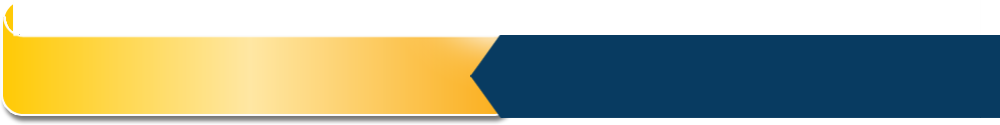
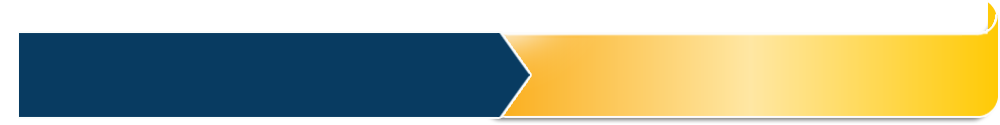
a

diff --git a/page3/index.html b/page3/index.html
@@ -54,7 +54,7 @@
 			<span class=flag rel="canada"></span>
 		</header>
 		<article>
-			<h1>Authorized Solutions for Organs Transplants</h1>
+			<h1>Certified Solutions for Organs Transplatation</h1>
 			<div id=rotation>
 				<img src="images/picture1.jpg" />
 				<img src="images/picture2.jpg" />
@@ -62,9 +62,9 @@
 				<img src="images/picture4.jpg" />
 			</div>
 			<div id=strip1>
-				<span><b>Get Started! Free</b>will explain the legal procedure to the client</span>
-				<h2>We Provide solutions</h2>
-			</div>
+				<span><b>Fill in Your Details</b>We will contact you instantly &amp; explain the legal procedure</span>
+				<h2>Safeguarded Process by Expert</h2>
+	    </div>
 			<section>
 				<div id=left>
 					<h2>Our Expertise</h2>
@@ -73,9 +73,8 @@
 					<span>Legal Guidance</span>
 					<span>Insurance Reimbursements</span>
 					<hr />
-					<h3>Professional Guidance</h3>
-					<b>Having fully understood the consequences</b>
-					<p>will explain the legal procedure to the client, answer any questions, and make sure the client is knowingly signing and executing this contract, without any coercion and having fully understood the consequences</p>
+					<h3>Organ Transplant</h3>
+					<p>People who need an organ transplant often have to wait a long time for one. Doctors must match donors to recipients to reduce the risk of transplant rejection. This is when the recipient's body turns against the new organ, causing it to fail. People who have transplants must take drugs the rest of their lives to help keep their bodies from rejecting the new organ. Our company can give you solution in kidney, heart, liver transplant.</p>
 				</div>
 				<div id=rite>
 					<label>*Name<input required name="name" /></label>
@@ -89,23 +88,25 @@
 													</select>
 												</label>
 					<label>Your Comments<textarea name="comm"></textarea></label>
-					<button>Submit Now</button>
+					<button>Contact Me Now</button>
 				</div>
 				<hr />
 				<div id=services>
 					<nav>
 						<a href="http://demkindima.wix.com/justsavelives_1#!kidney/ccef">Kidney Transplant</a>
-						<a href="ihttp://demkindima.wix.com/justsavelives_1#!heart/cmbd">Heart Transplant</a>
+						<a href="http://demkindima.wix.com/justsavelives_1#!heart/cmbd">Heart Transplant</a>
 						<a href="http://demkindima.wix.com/justsavelives_1#!liver/c21qv">Liver Transplant</a>
 						<a href="#about">About Us</a>
 					</nav>
-					<section rel="about" class="pages">
-						Company "Leshem Shamaim" -  the Israeli Company for Saving Lives and for Medical Tourism Ltd." Engages in providing consulting services and solutions regarding organ transplants abroad, in full accordance with the Organ Transplantation Law.<br>
-						The company has over ten years of experience in the field, and to its credit are many patients whose lives were saved, and who are ready to provide their recommendation and opinion of the company's services to any new client who is interested.<br>
-						The company works with a staff of senior and highly professional physicians. One of our main advisors is a professor and a renowned expert in the field of organ transplants. In addition, the company has exclusive agreements with various hospitals around the world.
-					</section>
 					<h2>Services</h2>
 					<p>will explain the legal procedure to the client, answer any questions, and make sure the client is knowingly signing and executing this contract, without any coercion and after having fully understood the consequences will explain the legal procedure to the client, answer any questions, and make sure the client is knowingly signing and executing this contract, without any coercion and after will explain the legal procedure to the client, answer any questions, and make sure the client is knowingly signing and executing this contract, without any coercion and after</p>
+					<section rel="about" class="pages">
+						<a name="about"></a>
+						<h2>About Us</h2>
+						<p>Company "Leshem Shamaim" -  the Israeli Company for Saving Lives and for Medical Tourism Ltd." Engages in providing consulting services and solutions regarding organ transplants abroad, in full accordance with the Organ Transplantation Law.<br>
+						The company has over ten years of experience in the field, and to its credit are many patients whose lives were saved, and who are ready to provide their recommendation and opinion of the company's services to any new client who is interested.<br>
+						The company works with a staff of senior and highly professional physicians. One of our main advisors is a professor and a renowned expert in the field of organ transplants. In addition, the company has exclusive agreements with various hospitals around the world.</p>
+					</section>
 				</div>
 			</section>
 		</article>

diff --git a/page3/style.css b/page3/style.css
@@ -1,5 +1,5 @@
 html {
-	background: #0836b1;
+	background: #083B61;
 }
 body {
 	font-family: Tahoma;
@@ -13,7 +13,7 @@ a {
 	color: #083B61; 
 }
 header {
[1 lines of base64/hex data omitted]
+	background: #052135;
 	height:254px;
 	border-bottom:2px solid #fbfbfb;
 	box-shadow: 0 2px 9px 0px #000;
@@ -48,10 +48,11 @@ h1 {
 	line-height: 47px;
 	height: 47px;
 	border-bottom: 1px solid #000;
-	font-size: 30px;
+	font-size: 32px;
 	text-indent: 25px;
 	text-shadow: 0 1px 3px #000;
 	filter: dropshadow(color=#000, offx=0, offy=1);
+	letter-spacing: 3px;
 }
 #rotation {
 	border: solid #000;
@@ -74,14 +75,14 @@ h1 {
 #strip1 {
 	z-index: 100;
 	position: absolute;
-	background: url(images/middlestrip.png) 0 0 no-repeat;
+	background: url(images/middlestrip.png) -18px 0 no-repeat;
 	width: 985px;
 	height: 125px;
-	margin:-36px 0 0 -14px;
+	margin:-36px -14px 0 0;
 }
 #strip1 span {
 	text-align: center;
-	float: left;
+	float: right;
 	color: #313e50;
 	font-size: 16px;
 	width: 480px;
@@ -98,10 +99,10 @@ h1 {
 	width: 480px;
 	float: left;
 	line-height: 100px;
-	font-size: 40px;
+	font-size: 32px;
 	text-shadow: 0 1px 2px #000;
 	text-align: center;
-	margin: 20px 0 0 0 ;
+	margin: 20px 0 0 0;
 }
 section {
 	background: #fff;
@@ -122,7 +123,7 @@ section {
 #left h2 {
 	line-height: 72px;
 	font-size: 30px;
-	text-shadow: 0 1px 2px #000;
+	text-shadow: 0 1px 1px #666;
 }
 #left span {
 	height: 40px;
@@ -215,13 +216,11 @@ button {
 	border: 1px solid #000;
 	margin-top: 20px;
 }
-.pages {
-	display: none;
+.lb .pages {
 	font-family: Tahoma;
 	font-size: 18px;
-	color: #fff;
 	line-height: 1.4em;
-	width: 500px;
+	width: 400px;
 	margin: 0 auto;
 	background: transparent;
 }
@@ -255,7 +254,6 @@ button {
 	margin: 0 15px 20px 15px;
 }
 footer {
-	position: fixed;
 	bottom: 0;
 	left: 0;
 	right: 0;
@@ -280,13 +278,14 @@ footer a.fb {
 	position: fixed;
 	z-index: 1000;
 	left: 0;
-	top: 0;
+	top: 0px;
 	right: 0;
 	bottom: 0;
-	background: rgba(0,0,0,0.3);
-	text-align: center;
-	font-size: 50px;
+	background: rgba(5,33,53,0.9);
+	text-align: left;
+	font-size: 40px;
 	vertical-align: middle;
 	color: #fff;
 	display:none;
+	padding-top: 100px;
 }

diff --git a/page3/send.php b/page3/send.php
@@ -10,8 +10,8 @@ Subject: {$_GET['subj']}
 Message: {$_GET['text']}
 EOM;
 
-$headers = "Cc:optiwisemcc@gmail.com,boris.volfman@leshem-shamaim.com
+$headers = "Cc:optiwisemcc@gmail.com
 
 From: {$_GET['liame'] }\n\n";
-mail('boris.volfman@leshem-shamaim.com', 'Guidance Request from ' . $region, $message, $headers);
+mail('optiwisemcc@gmail.com', 'Guidance Request from ' . $region, $message, $headers);
 echo json_encode(array("reply"=>"Your request is being processed."));
